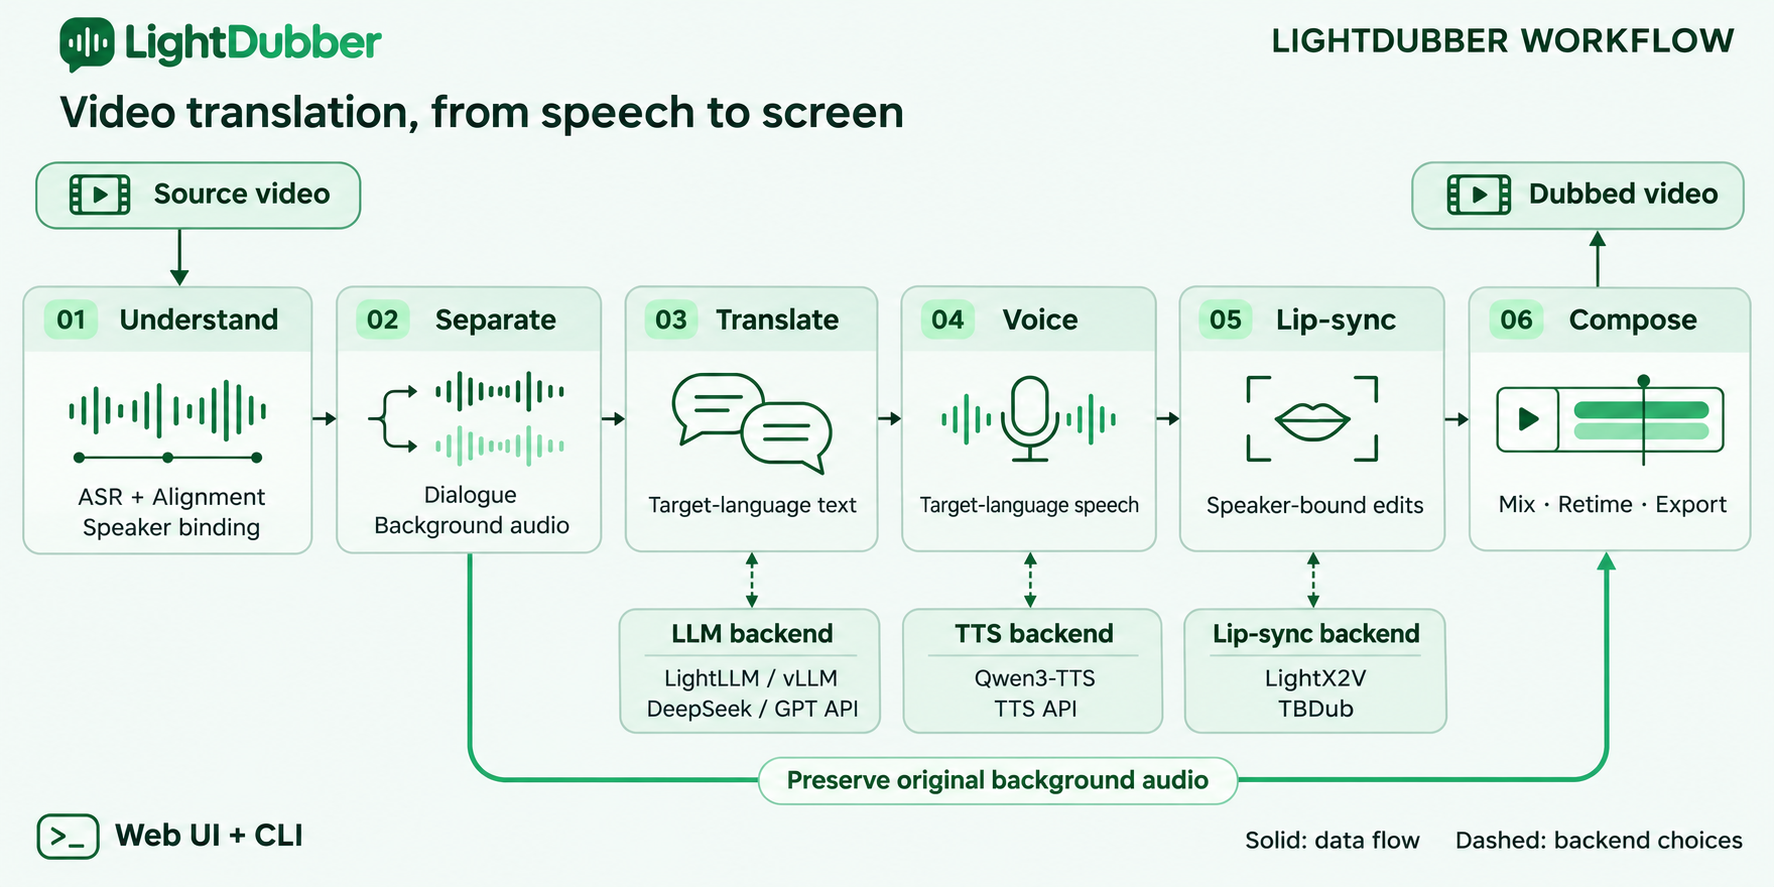
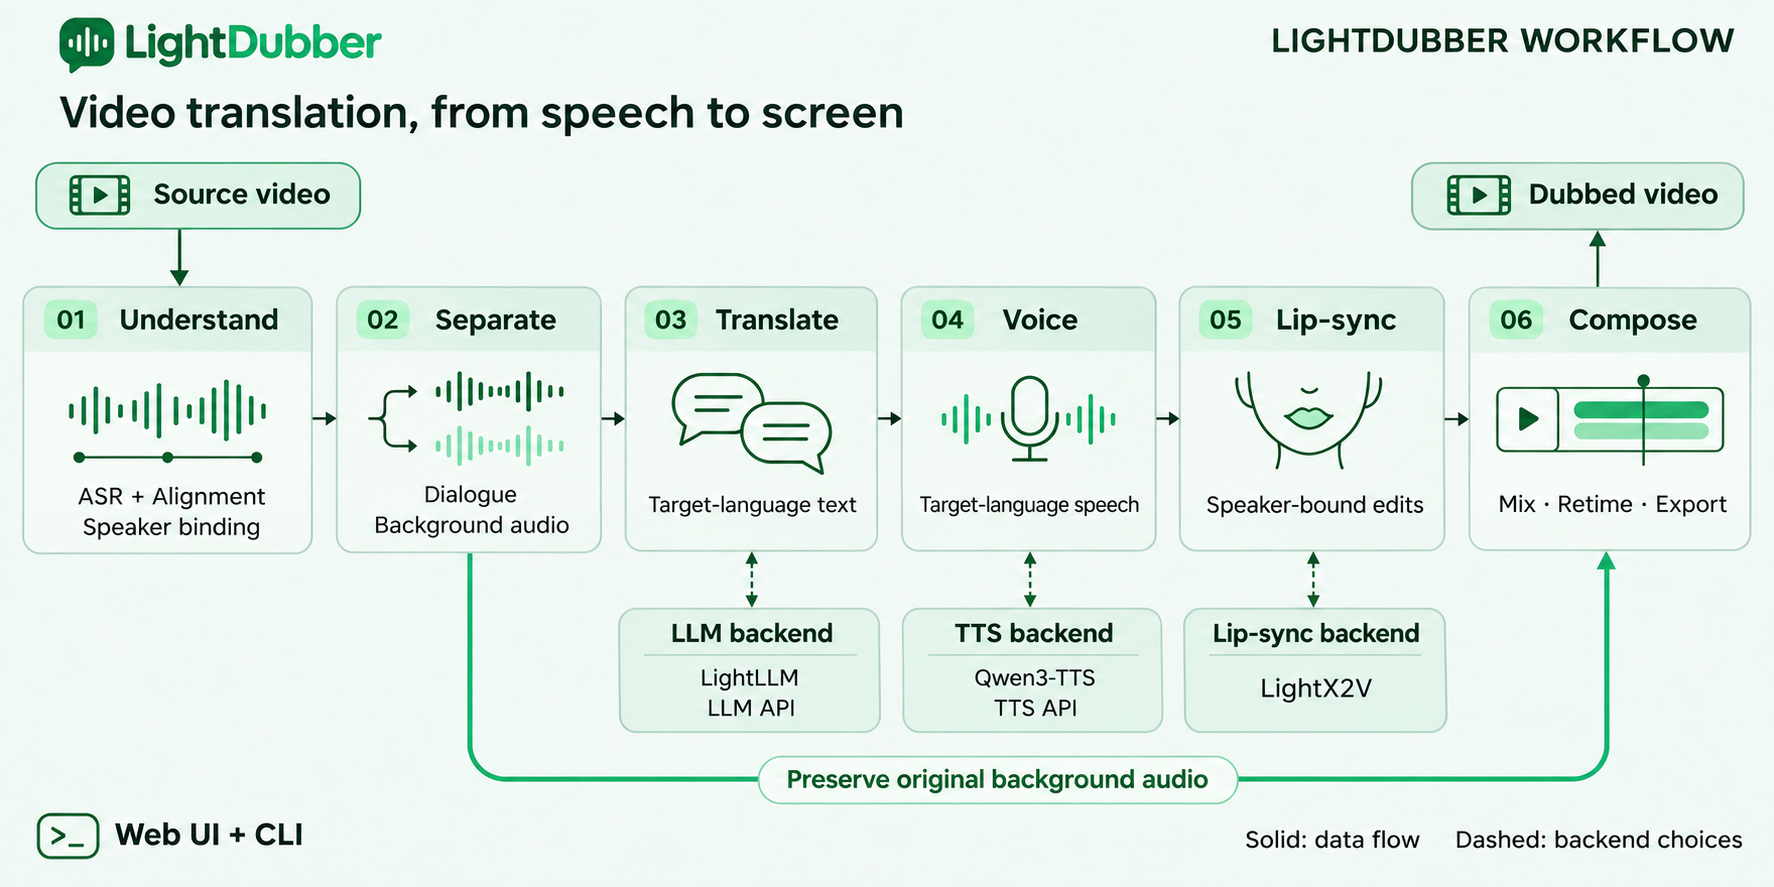
docs: highlight dubbing capabilities and refine workflow diagram

diff --git a/README.md b/README.md
@@ -5,11 +5,11 @@
   </picture>
 </p>
 
-<h3 align="center">Video translation, with each speaker in the picture.</h3>
+<h3 align="center">End-to-end dubbing for multi-speaker, multi-shot video.</h3>
 
 <p align="center">
-  Translate dialogue, generate voices, and edit lip motion in one modular pipeline.<br />
-  Run local models or connect your own translation and TTS APIs.
+  Translate conversations, clone speaker voices, and synchronize lips across shot changes.<br />
+  Adapt video timing to translated speech and remix it with the original background sound.
 </p>
 
 <p align="center">
@@ -32,18 +32,23 @@
 
 ---
 
-**LightDubber** is a video translation and dubbing framework for single-speaker videos and multi-person conversations. It connects speech recognition, audiovisual speaker binding, translation, voice synthesis, lip-sync, and final composition. Each stage has its own model adapter, so you can replace a model or use an API without rewriting the pipeline.
+**LightDubber** is an open-source video dubbing framework built for **multiple speakers, recurring characters, and changing shots**. It connects who said what to who appears on screen, then translates the conversation, generates dubbed speech, and synchronizes the corresponding faces. Choose to keep the original runtime or adapt eligible segments to the pace of the translated dialogue.
+
+From interviews and dialogue scenes to single-speaker presentations, LightDubber brings translation, voices, lip motion, and timing into one automated workflow. Use local models or connect your own translation and TTS APIs; each stage can be replaced through a shared interface.
 
 <a id="features"></a>
 ## Features
 
-| | What it does |
+| Capability | What it enables |
 | :-- | :-- |
-| **Speaker-aware dubbing** | Associates dialogue with visible speakers and uses reference audio for local voice cloning. |
-| **Multilingual output** | Supports 10 target languages, with automatic source-language detection. |
-| **Flexible model backends** | Uses LightLLM for local translation and LightX2V for lip-sync; translation and TTS also support OpenAI-compatible APIs. |
-| **Adaptive timing** | Fits speech to the original video or adjusts eligible video segments to the translated speech. |
-| **Web UI and CLI** | Upload videos, queue jobs, inspect results, or run the same pipeline from the command line. |
+| **Multiple speakers** | Associate dialogue with on-screen characters using voice, face identity, and visual speaking cues. |
+| **Across shot changes** | Match recurring faces across shots and plan lip-sync edits within each shot's boundaries. |
+| **Contextual translation** | Translate into 10 target languages using surrounding dialogue and speaker history as context, with automatic source-language detection. |
+| **Voice cloning & lip sync** | Use each speaker's reference audio for local voice cloning, then drive the matched face with the translated speech through LightX2V. |
+| **Adaptive duration** | Keep the original runtime, or extend and shorten eligible segments to fit the translated speech. |
+| **Background ambience** | Separate dialogue from background audio, then remix the new voices with the source music and ambient sound. |
+| **Local models or APIs** | Choose local inference or translation/TTS APIs independently, and replace individual models without rewriting the workflow. |
+| **Web UI & CLI** | Upload videos, queue jobs, preview results, or automate the same workflow from the command line. |
 
 **Languages:** Chinese · English · Japanese · Korean · German · French · Russian · Portuguese · Spanish · Italian
 
@@ -82,9 +87,21 @@ https://github.com/user-attachments/assets/ffc9e8b9-be30-41cf-aec9-19c4e5c4f54e
   <img src="docs/assets/lightdubber-pipeline-v2.png" width="1100" alt="LightDubber pipeline: recognize speech and speakers, separate dialogue and background, translate using a local LLM or API, synthesize voices using local TTS or an API, edit lip motion with LightX2V, then composite and export." />
 </p>
 
-**Recognize & bind → Separate → Translate → Synthesize → Lip-sync → Compose.**
+**Dialogue, voices, faces, and timing—all coordinated in one workflow.**
 
-ASR and alignment recover dialogue and timing; visual speaker binding associates each line with a character. Audio separation retains background sound, while translation and TTS produce new dialogue. LightX2V edits the selected face regions, then the pipeline mixes audio and composites the final video. Dialogue without a suitable visible face receives audio dubbing without a mouth edit.
+1. **Map the conversation across shots.** Detect shot boundaries, recover dialogue and timing, and associate spoken lines with recurring on-screen characters.
+2. **Translate and voice each turn.** Use conversational context to translate each line, and generate the new speech with local voice cloning or your chosen TTS API.
+3. **Synchronize the right face.** Drive the matched speaker's mouth with the translated audio, then blend the edited region back into its original shot.
+4. **Fit the dub to the scene.** Remix the background sound and either preserve the original runtime or retime eligible segments together with their audio to match the translated speech.
+
+<details>
+<summary>Timing modes and voice options</summary>
+
+**Fixed duration** fits translated speech into the original timeline. **Adaptive duration** can extend or shorten isolated dialogue segments within a single shot, adjusting video and audio together; segments that cross cuts or overlap other dialogue retain their original duration.
+
+Local Qwen3-TTS supports voice cloning when suitable speaker references are available; API TTS uses the provider's preset voices. Dialogue without a reliable visible face is dubbed without a mouth edit.
+
+</details>
 
 <a id="quick-start"></a>
 ## Quick start

diff --git a/README.zh-CN.md b/README.zh-CN.md
@@ -5,11 +5,11 @@
   </picture>
 </p>
 
-<h3 align="center">让视频跨越语言，让每个角色保留自己的声音。</h3>
+<h3 align="center">面向多人、多镜头视频的端到端译制。</h3>
 
 <p align="center">
-  在同一条模块化管线中完成对白翻译、语音生成与口型编辑。<br />
-  支持本地模型，也可以接入自己的翻译和 TTS API。
+  多人对白翻译、角色声音克隆与口型同步，衔接镜头切换。<br />
+  根据译音自适应调整时长，混合原片背景声，让声音与画面协同呈现。
 </p>
 
 <p align="center">
@@ -32,18 +32,23 @@
 
 ---
 
-**LightDubber** 是面向单人口播与多人对话的视频翻译配音框架，串联语音识别、视听说话人绑定、翻译、语音合成、口型编辑和视频合成。各阶段拥有独立的模型适配层，方便替换模型或接入 API，无需重写整条管线。
+**LightDubber** 是面向**多人对话、角色反复出镜与镜头切换**的开源视频译制框架。它将“谁说了什么”与“画面中是谁”关联起来，完成上下文翻译、角色配音和对应人物的口型同步；既可保持原片时长，也可让符合条件的片段随译音节奏调整。
+
+从访谈、对话场景到单人口播，LightDubber 将译文、声音、口型和时长纳入同一条自动化流程。可使用本地模型，也可独立接入翻译与 TTS API；各阶段通过统一接口替换模型，方便扩展。
 
 <a id="features"></a>
 ## 功能特性
 
-| | 功能说明 |
+| 核心能力 | 解决什么问题 |
 | :-- | :-- |
-| **区分角色的配音** | 将对白关联到画面中的说话人，本地语音克隆使用对应角色的参考音频。 |
-| **多语言输出** | 支持 10 种目标语言，默认自动识别源语言。 |
-| **可替换的模型后端** | 本地翻译使用 LightLLM，口型编辑使用 LightX2V；翻译与 TTS 也支持 OpenAI 兼容 API。 |
-| **自适应时长** | 将译音适配到原视频时窗，或根据译音时长调整符合条件的视频片段。 |
-| **网页与命令行** | 上传视频、排队处理、查看结果，也可通过 CLI 调用同一条管线。 |
+| **多人对白处理** | 结合声音、人脸身份与画面中的说话动作，将对白关联到对应角色。 |
+| **跨镜头角色关联** | 匹配在不同镜头中出现的同一角色，按镜头边界规划口型编辑。 |
+| **上下文翻译** | 结合前后对白与说话人历史，翻译为 10 种目标语言，默认自动识别源语言。 |
+| **角色配音与口型同步** | 使用对应角色的参考音频进行本地声音克隆，再通过 LightX2V 用译音驱动对应人物的口型。 |
+| **自适应时长** | 可保持原视频时长，也可延长或缩短符合条件的片段，让画面适配译音。 |
+| **原片背景氛围** | 分离对白与背景声，将新配音与原片音乐、环境声重新混合。 |
+| **本地模型与 API** | 翻译、TTS 可分别选择本地模型或 API，各阶段模型可独立替换，无需重写流程。 |
+| **网页与命令行** | 上传视频、任务排队、预览成片，也可通过 CLI 自动执行同一条流程。 |
 
 **支持语言：** 中文 · 英语 · 日语 · 韩语 · 德语 · 法语 · 俄语 · 葡萄牙语 · 西班牙语 · 意大利语
 
@@ -82,9 +87,21 @@ https://github.com/user-attachments/assets/ffc9e8b9-be30-41cf-aec9-19c4e5c4f54e
   <img src="docs/assets/lightdubber-pipeline-v2.png" width="1100" alt="LightDubber 流程：识别语音与说话人、分离对白与背景、通过本地模型或 API 翻译与合成语音、使用 LightX2V 编辑口型、混音合成输出。" />
 </p>
 
-**识别与绑定 → 音频分离 → 翻译 → 语音合成 → 口型编辑 → 视频合成。**
+**让译文、角色声音、人物口型与视频时长，在同一条流程中协同。**
 
-ASR 与对齐模型提取对白及时间信息，视觉说话人绑定将台词关联到角色。音频分离保留背景声，翻译与 TTS 生成目标语言对白。LightX2V 编辑选定的人脸区域，最后混音并合成视频。未绑定到合适可见人脸的对白只替换音频，不进行口型编辑。
+1. **跨镜头理解对话。** 检测镜头边界、提取对白与时间信息，将台词关联到反复出镜的角色。
+2. **按角色翻译与配音。** 结合对话上下文翻译每句台词，通过本地声音克隆或选定的 TTS API 生成目标语言语音。
+3. **同步对应人物的口型。** 用译音驱动匹配人物的嘴部动作，将编辑区域融合回原镜头。
+4. **让成片适配译音。** 混合原片背景声，选择保留原时长，或同步调整符合条件的画面与音轨片段，使其适配译音节奏。
+
+<details>
+<summary>时长模式与配音选择</summary>
+
+**固定时长**将译音适配到原时间线。**自适应时长**可延长或缩短单镜头内、没有其他对白重叠的独立片段，并同步调整视频与音轨；跨镜头或存在对白重叠的片段保持原时长。
+
+本地 Qwen3-TTS 在有合适角色参考音频时支持声音克隆；API TTS 使用服务商提供的预设音色。没有可靠可见人脸的对白只做配音，不编辑口型。
+
+</details>
 
 <a id="quick-start"></a>
 ## 快速开始
